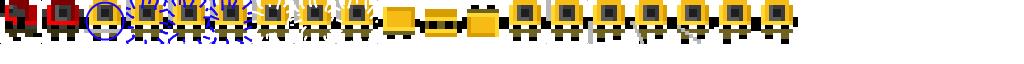
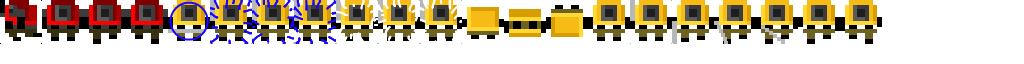
Enemies walk towards Player when he's in sight.

Changed region(s): [[0.0625, 0.0, 0.875, 0.6875]]

diff --git a/core/src/main/java/com/genericgames/samurai/input/PlayerController.java b/core/src/main/java/com/genericgames/samurai/input/PlayerController.java
@@ -12,6 +12,7 @@ import com.genericgames.samurai.model.SamuraiWorld;
 import com.genericgames.samurai.model.movable.State;
 import com.genericgames.samurai.model.PlayerCharacter;
 import com.genericgames.samurai.physics.PhysicalWorldHelper;
+import com.genericgames.samurai.utility.CoordinateSystem;
 import com.genericgames.samurai.utility.DebugMode;
 import com.genericgames.samurai.utility.MovementVector;
 import com.genericgames.samurai.screens.WorldRenderer;
@@ -124,11 +125,12 @@ public class PlayerController extends InputAdapter {
             CombatHelper.continueDodge(playerCharacter);
         }
 
-        PhysicalWorldHelper.moveBody(samuraiWorld.getPhysicalWorld(), playerCharacter, directionVector, vector);
+        PhysicalWorldHelper.movePlayer(samuraiWorld, directionVector, vector);
     }
 
     private void handleAttackInput(int button) {
-        MovementVector movementVector = new MovementVector(directionVector);
+        MovementVector movementVector =
+                new MovementVector(CoordinateSystem.translateMouseToLocalPosition(directionVector));
         PlayerCharacter playerCharacter = samuraiWorld.getPlayerCharacter();
 
         State playerCharacterState = playerCharacter.getState();
@@ -143,11 +145,12 @@ public class PlayerController extends InputAdapter {
             }
         }
 
-        PhysicalWorldHelper.moveBody(samuraiWorld.getPhysicalWorld(), samuraiWorld.getPlayerCharacter(), directionVector, movementVector.getMovementVector());
+        PhysicalWorldHelper.movePlayer(samuraiWorld, directionVector, movementVector.getMovementVector());
     }
 
     private void handleChargeAttackInput(int button) {
-        MovementVector movementVector = new MovementVector(directionVector);
+        MovementVector movementVector =
+                new MovementVector(CoordinateSystem.translateMouseToLocalPosition(directionVector));
         PlayerCharacter playerCharacter = samuraiWorld.getPlayerCharacter();
 
         if(playerCharacter.getState().isAttackCapable()){
@@ -157,11 +160,12 @@ public class PlayerController extends InputAdapter {
             }
         }
 
-        PhysicalWorldHelper.moveBody(samuraiWorld.getPhysicalWorld(), samuraiWorld.getPlayerCharacter(), directionVector, movementVector.getMovementVector());
+        PhysicalWorldHelper.movePlayer(samuraiWorld, directionVector, movementVector.getMovementVector());
     }
 
     private void handleBlockInitiation(int button) {
-        MovementVector movementVector = new MovementVector(directionVector);
+        MovementVector movementVector =
+                new MovementVector(CoordinateSystem.translateMouseToLocalPosition(directionVector));
         PlayerCharacter playerCharacter = samuraiWorld.getPlayerCharacter();
 
         if(playerCharacter.getState().isBlockCapable()){
@@ -171,7 +175,7 @@ public class PlayerController extends InputAdapter {
             }
         }
 
-        PhysicalWorldHelper.moveBody(samuraiWorld.getPhysicalWorld(), samuraiWorld.getPlayerCharacter(), directionVector, movementVector.getMovementVector());
+        PhysicalWorldHelper.movePlayer(samuraiWorld, directionVector, movementVector.getMovementVector());
     }
 
     private void handleBlockDiscontinuation(int button) {
@@ -182,7 +186,8 @@ public class PlayerController extends InputAdapter {
     }
 
     private MovementVector handleMovementInput() {
-        MovementVector movementVector = new MovementVector(directionVector);
+        MovementVector movementVector =
+                new MovementVector(CoordinateSystem.translateMouseToLocalPosition(directionVector));
         if(samuraiWorld.getPlayerCharacter().getState().isMoveCapable()){
 
             if (inputs.get(Inputs.FORWARD)) {
@@ -199,7 +204,7 @@ public class PlayerController extends InputAdapter {
             if(movementVector.hasMoved()){
                 CombatHelper.setDodgeVector(movementVector.getDodgeVector());
                 samuraiWorld.getPlayerCharacter().setState(State.WALKING);
-                samuraiWorld.getPlayerCharacter().setStateTime(samuraiWorld.getPlayerCharacter().getStateTime()+1);
+                samuraiWorld.getPlayerCharacter().incrementStateTime();
             }
             else{
                 samuraiWorld.getPlayerCharacter().setState(State.IDLE);
@@ -224,7 +229,8 @@ public class PlayerController extends InputAdapter {
     }
 
     private void handleDodgeInitiation(int button) {
-        MovementVector movementVector = new MovementVector(directionVector);
+        MovementVector movementVector =
+                new MovementVector(CoordinateSystem.translateMouseToLocalPosition(directionVector));
         PlayerCharacter playerCharacter = samuraiWorld.getPlayerCharacter();
 
         if(playerCharacter.getState().isDodgeCapable()){
@@ -233,6 +239,6 @@ public class PlayerController extends InputAdapter {
             }
         }
 
-        PhysicalWorldHelper.moveBody(samuraiWorld.getPhysicalWorld(), samuraiWorld.getPlayerCharacter(), directionVector, movementVector.getMovementVector());
+        PhysicalWorldHelper.movePlayer(samuraiWorld, directionVector, movementVector.getMovementVector());
     }
 }

diff --git a/core/src/main/java/com/genericgames/samurai/ai/AIHelper.java b/core/src/main/java/com/genericgames/samurai/ai/AIHelper.java
@@ -1,13 +1,14 @@
 package com.genericgames.samurai.ai;
 
 import com.badlogic.gdx.math.Vector2;
-import com.badlogic.gdx.physics.box2d.Body;
 import com.badlogic.gdx.physics.box2d.Contact;
+import com.badlogic.gdx.physics.box2d.World;
 import com.genericgames.samurai.model.PlayerCharacter;
 import com.genericgames.samurai.model.SamuraiWorld;
+import com.genericgames.samurai.model.movable.State;
 import com.genericgames.samurai.model.movable.living.ai.Enemy;
 import com.genericgames.samurai.physics.PhysicalWorldHelper;
-import com.genericgames.samurai.utility.CoordinateSystem;
+import com.genericgames.samurai.utility.MovementVector;
 
 public class AIHelper {
 
@@ -16,12 +17,14 @@ public class AIHelper {
      * If he is, then check if there's a clear line of sight between the two.
      */
     public static void detectAIAwareness(SamuraiWorld samuraiWorld){
-        for(Contact contact : samuraiWorld.getPhysicalWorld().getContactList()){
+        World physicalWorld = samuraiWorld.getPhysicalWorld();
+        for(Contact contact : physicalWorld.getContactList()){
             if(contact.isTouching()){
                 if(PhysicalWorldHelper.isBetweenPlayerAndEnemyFOV(contact)){
                     Enemy enemy = PhysicalWorldHelper.getEnemy(contact);
-                    //TODO if clear line of sight to player
-                    enemy.setPlayerAware(true);
+                    if(PhysicalWorldHelper.clearLineBetween(samuraiWorld.getPlayerCharacter(), enemy, physicalWorld)){
+                        enemy.setPlayerAware(true);
+                    }
                 }
 
                 callForSupport(contact);
@@ -56,13 +59,30 @@ public class AIHelper {
     private static void handleAIMovement(SamuraiWorld samuraiWorld) {
         for(Enemy enemy : samuraiWorld.getEnemies()){
             if(enemy.isPlayerAware() && enemy.isAlive()){
-                Body body = PhysicalWorldHelper.getBodyFor(enemy, samuraiWorld.getPhysicalWorld());
-                //Look in player's direction:
                 PlayerCharacter playerCharacter = samuraiWorld.getPlayerCharacter();
+                World physicalWorld = samuraiWorld.getPhysicalWorld();
+                //Look in player's direction:
                 Vector2 directionVector =  new Vector2(playerCharacter.getX() - enemy.getX(),
                         enemy.getY() - playerCharacter.getY());
+                MovementVector movementVector = new MovementVector(directionVector);
 
-                body.setTransform(body.getPosition(), CoordinateSystem.getRotationAngleInRadians(directionVector));
+                if(PhysicalWorldHelper.clearLineBetween(playerCharacter, enemy, physicalWorld)){
+                    movementVector.forwardMovement();
+                }
+                else {
+                    movementVector.stop();
+                }
+
+                if(movementVector.hasMoved()){
+                    enemy.setState(State.WALKING);
+                    enemy.incrementStateTime();
+                }
+                else {
+                    enemy.setState(State.IDLE);
+                }
+
+                PhysicalWorldHelper.moveBody(samuraiWorld.getPhysicalWorld(), enemy, directionVector,
+                        movementVector.getEnemyMovementVector());
             }
         }
     }

diff --git a/core/src/main/java/com/genericgames/samurai/physics/PhysicalWorldHelper.java b/core/src/main/java/com/genericgames/samurai/physics/PhysicalWorldHelper.java
@@ -48,11 +48,15 @@ public class PhysicalWorldHelper {
         AIHelper.handleAIActions(samuraiWorld);
     }
 
+    public static void movePlayer(SamuraiWorld samuraiWorld, Vector2 direction, Vector2 linearVelocity){
+        Vector2 mouseVector = CoordinateSystem.translateMouseToLocalPosition(direction);
+        moveBody(samuraiWorld.getPhysicalWorld(), samuraiWorld.getPlayerCharacter(), mouseVector, linearVelocity);
+    }
+
     public static void moveBody(World world, Collidable collidable, Vector2 direction, Vector2 linearVelocity){
         Body body = getBodyFor(collidable, world);
         body.setLinearVelocity(linearVelocity);
-        Vector2 mouseVector = CoordinateSystem.translateMouseToLocalPosition(direction);
-        body.setTransform(body.getPosition(), CoordinateSystem.getRotationAngleInRadians(mouseVector));
+        body.setTransform(body.getPosition(), CoordinateSystem.getRotationAngleInRadians(direction));
     }
 
     public static Body getBodyFor(Collidable collidable, World world) {
@@ -107,6 +111,15 @@ public class PhysicalWorldHelper {
         throw new IllegalArgumentException("No sensor fixture was found for Living object: "+character+".");
     }
 
+    public static Fixture getLivingBodyFixtureFor(Living character, World world){
+        for(Fixture fixture : getBodyFor(character, world).getFixtureList()){
+            if(isLivingBody(fixture)){
+                return fixture;
+            }
+        }
+        throw new IllegalArgumentException("No living body fixture was found for object: "+character+".");
+    }
+
     public static boolean isBetweenPlayerAndEnemyFOV(Contact contact) {
         return (
                 (PhysicalWorldHelper.isEnemyFieldOfVision(contact.getFixtureA()) &&
@@ -130,5 +143,12 @@ public class PhysicalWorldHelper {
             return (Enemy) contact.getFixtureB().getBody().getUserData();
         }
         throw new IllegalArgumentException("Neither fixture A or B is an Enemy!");
+    }
+
+    public static boolean clearLineBetween(Living character1, Living character2, World physicalWorld){
+        RayCast rayCast = new RayCast();
+        physicalWorld.rayCast(rayCast,
+                new Vector2(character1.getX(), character1.getY()), new Vector2(character2.getX(), character2.getY()));
+        return rayCast.getFraction() == 1f;
     }
 }

diff --git a/core/src/main/java/com/genericgames/samurai/combat/CombatHelper.java b/core/src/main/java/com/genericgames/samurai/combat/CombatHelper.java
@@ -24,8 +24,8 @@ public class CombatHelper {
     }
 
     public static void continueAttack(Living attacker, World world){
-        float stateTime = attacker.getStateTime() + 1;
-        attacker.setStateTime(stateTime);
+        attacker.incrementStateTime();
+        float stateTime = attacker.getStateTime();
         try {
             Attack correspondingAttack = getMatchingAttack(attacker.getState(), attacker);
             if(stateTime == correspondingAttack.getDuration()){
@@ -101,13 +101,12 @@ public class CombatHelper {
     }
 
     public static void continueCharge(State state, Living attacker) {
-        float stateTime = attacker.getStateTime() + 1;
-        attacker.setStateTime(stateTime);
+        attacker.incrementStateTime();
         try {
             Attack correspondingAttack = getMatchingAttack(state, attacker);
             if(correspondingAttack instanceof ChargeAttack){
                 ChargeAttack chargeAttack = (ChargeAttack)correspondingAttack;
-                if(stateTime < chargeAttack.getChargeDuration()){
+                if(attacker.getStateTime() < chargeAttack.getChargeDuration()){
                     attacker.setState(State.CHARGING);
                 }
                 else {
@@ -139,10 +138,9 @@ public class CombatHelper {
     }
 
     public static void continueDodge(Living dodger) {
-        float stateTime = dodger.getStateTime() + 1;
-        dodger.setStateTime(stateTime);
+        dodger.incrementStateTime();
 
-        if(stateTime >= DODGE_DURATION){
+        if(dodger.getStateTime() >= DODGE_DURATION){
             dodger.setState(State.IDLE);
         }
     }

diff --git a/core/src/main/java/com/genericgames/samurai/utility/MovementVector.java b/core/src/main/java/com/genericgames/samurai/utility/MovementVector.java
@@ -1,6 +1,5 @@
 package com.genericgames.samurai.utility;
 
-import com.badlogic.gdx.Gdx;
 import com.badlogic.gdx.math.Vector2;
 
 public class MovementVector extends Vector2 {
@@ -17,7 +16,7 @@ public class MovementVector extends Vector2 {
     }
 
     public Vector2 getMovementDirection(){
-        Vector2 movementVector = CoordinateSystem.translateMouseToLocalPosition(directionVector);
+        Vector2 movementVector = directionVector.cpy();
         movementVector.y = -movementVector.y;
         return movementVector;
     }
@@ -28,9 +27,7 @@ public class MovementVector extends Vector2 {
     }
 
     public void backwardMovement(){
-        this.add(getMovementDirection());
-        y = -y;
-        x  = -x;
+        this.add(getMovementDirection().rotate(180));
         printDebug("Backward");
     }
 
@@ -46,6 +43,10 @@ public class MovementVector extends Vector2 {
 
     public Vector2 getMovementVector(){
         return this.nor().scl(DEFAULT_SPEED);
+    }
+
+    public Vector2 getEnemyMovementVector(){
+        return this.nor().scl(DEFAULT_SPEED/2);
     }
 
     public Vector2 getLightAttackVector(){

diff --git a/core/src/main/java/com/genericgames/samurai/utility/ImageCache.java b/core/src/main/java/com/genericgames/samurai/utility/ImageCache.java
@@ -53,6 +53,7 @@ public class ImageCache {
 
         animations.put(Enemy.class, new HashMap<State, Animation>());
         loadEnemy1IdleAnimation(atlas);
+        loadEnemy1RunningAnimation(atlas);
         loadEnemy1DeadAnimation(atlas);
 	}
 
@@ -126,6 +127,14 @@ public class ImageCache {
             idleFrames[i] = atlas.findRegion("Enemy1-idle-0" + (i+1));
         }
         animations.get(Enemy.class).put(State.IDLE, new Animation(IDLE_FRAME_DURATION, idleFrames));
+    }
+
+    private static void loadEnemy1RunningAnimation(TextureAtlas atlas) {
+        TextureRegion[] walkFrames = new TextureRegion[NUM_RUNNING_FRAMES];
+        for (int i = 0; i < NUM_RUNNING_FRAMES; i++) {
+            walkFrames[i] = atlas.findRegion("Enemy1-walk-0" + (i+1));
+        }
+        animations.get(Enemy.class).put(State.WALKING, new Animation(RUNNING_FRAME_DURATION, walkFrames));
     }
 
     private static void loadEnemy1DeadAnimation(TextureAtlas atlas) {

diff --git a/core/src/main/java/com/genericgames/samurai/physics/RayCast.java b/core/src/main/java/com/genericgames/samurai/physics/RayCast.java
@@ -1,0 +1,31 @@
+package com.genericgames.samurai.physics;
+
+import com.badlogic.gdx.math.Vector2;
+import com.badlogic.gdx.physics.box2d.Fixture;
+import com.badlogic.gdx.physics.box2d.RayCastCallback;
+
+public class RayCast implements RayCastCallback {
+
+    private Fixture f;
+    private Vector2 point;
+    private float fraction;
+
+    public RayCast() {
+        this.fraction = 1f;
+    }
+
+    @Override
+    public float reportRayFixture(Fixture fixture, Vector2 point, Vector2 normal, float fraction) {
+        if(fixture.getFilterData().categoryBits == PhysicalWorldHelper.CATEGORY_INDESTRUCTIBLE){
+                this.f = fixture;
+                this.point = point;
+                this.fraction = fraction;
+            return fraction;
+        }
+        return -1f;
+    }
+
+    public float getFraction() {
+        return fraction;
+    }
+}

diff --git a/core/src/main/java/com/genericgames/samurai/model/movable/Movable.java b/core/src/main/java/com/genericgames/samurai/model/movable/Movable.java
@@ -56,7 +56,11 @@ public abstract class Movable extends WorldObject implements Collidable {
 		return stateTime;
 	}
 
-	public void setStateTime(float stateTime) {
-		this.stateTime = stateTime;
-	}
+    public void setStateTime(float stateTime) {
+        this.stateTime = stateTime;
+    }
+
+    public void incrementStateTime() {
+        stateTime = stateTime + 1;
+    }
 }
